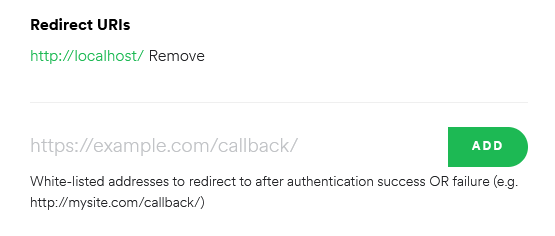
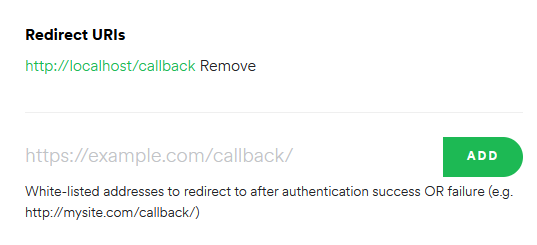
Update spotify audiosource page

diff --git a/audioband/audiosources/spotify.html b/audioband/audiosources/spotify.html
@@ -82,16 +82,12 @@
 <h2 id="setup">Setup</h2>
 <ol>
 <li>Login to the <a href="https://developer.spotify.com/dashboard/login">Spotify Dashboard</a> and create a new App. Fill in the details, you can name it whatever you want. This app will be just for AudioBand.</li>
-<li>Go to the app you created and click <code>Edit Settings</code>. Add <code>http://localhost/</code> as a callback url.
+<li>Go to the app you created and click <code>Edit Settings</code>. Add <code>http://localhost/callback</code> as a redirect url (see image below).
 <ol>
-<li>You can use a different port for the local webserver (see next step)</li>
+<li>If you use a different port than 80, you have to change the callback url to <code>http://localhost:PORT/callback</code></li>
 </ol>
 </li>
-<li>Right click anywhere in the toolbar &gt; Audio Band Settings &gt; Audio Source Settings and fill in the fields <code>Spotify Client Id</code> and <code>Spotify Client Secret</code>. You can find them in the same dashboard page for the Spotify app you created.
-<ol>
-<li>You can also change the <code>Callback Port</code> if needed.</li>
-</ol>
-</li>
+<li>Right click anywhere in the toolbar -&gt; Audio Band Settings -&gt; Audio Source Settings and fill in the fields <code>Spotify Client Id</code> and <code>Spotify Client Secret</code>. You can find them in the same dashboard page for the Spotify app you created.</li>
 <li>Your browser should open asking you to login and allow your spotify app to access your currently playing songs.
 <ol>
 <li>If your browser does not open automatically, Right click the toolbar and select Audio Sources &gt; Spotify. It should now open in your default browser.</li>
@@ -101,8 +97,8 @@
 </ol>
 <div class="NOTE">
 <h5>Note</h5>
-<p>Currently you need to have the Spotify desktop application for the playback buttons to work properly.
-The shuffle, repeat-mode and progress bar buttons will only work if you have Spotify Premium.</p>
+<p>If you have premium, all controls will work (except for volume when playing on mobile devices (Spotify limitation)).
+Without premium, only play/pause, next and previous song will work.</p>
 </div>
 <blockquote>
 <p>Dashboard

diff --git a/docfx/audioband/audiosources/spotify.md b/docfx/audioband/audiosources/spotify.md
@@ -2,17 +2,16 @@
 
 ## Setup
 1. Login to the [Spotify Dashboard](https://developer.spotify.com/dashboard/login) and create a new App. Fill in the details, you can name it whatever you want. This app will be just for AudioBand.
-2. Go to the app you created and click `Edit Settings`. Add `http://localhost/` as a callback url.
-    1. You can use a different port for the local webserver (see next step)
-3. Right click anywhere in the toolbar > Audio Band Settings > Audio Source Settings and fill in the fields `Spotify Client Id` and `Spotify Client Secret`. You can find them in the same dashboard page for the Spotify app you created.
-    1. You can also change the `Callback Port` if needed.
+2. Go to the app you created and click `Edit Settings`. Add `http://localhost/callback` as a redirect url (see image below).
+    1. If you use a different port than 80, you have to change the callback url to `http://localhost:PORT/callback`
+3. Right click anywhere in the toolbar -> Audio Band Settings -> Audio Source Settings and fill in the fields `Spotify Client Id` and `Spotify Client Secret`. You can find them in the same dashboard page for the Spotify app you created.
 4. Your browser should open asking you to login and allow your spotify app to access your currently playing songs.
     1. If your browser does not open automatically, Right click the toolbar and select Audio Sources > Spotify. It should now open in your default browser. 
-6. Sign-in and accept and it should now display song information (make sure spotify is selected as the audio source).
+5. Sign-in and accept and it should now display song information (make sure spotify is selected as the audio source).
 
 >[!NOTE]
-> Currently you need to have the Spotify desktop application for the playback buttons to work properly.
-> The shuffle, repeat-mode and progress bar buttons will only work if you have Spotify Premium.
+> If you have premium, all controls will work (except for volume when playing on mobile devices (Spotify limitation)).
+> Without premium, only play/pause, next and previous song will work.
 
 > Dashboard
 ![](~/images/spotify-dashboard.png)
